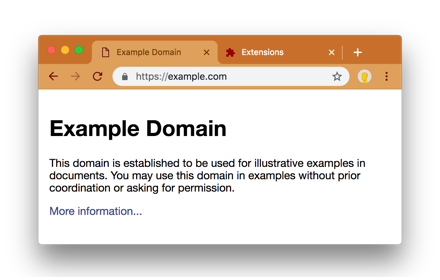
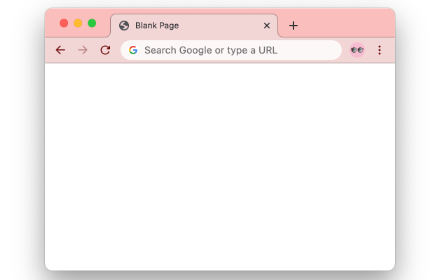
Pink.

diff --git a/README.md b/README.md
@@ -1,5 +1,5 @@
-# Ochre Chrome Theme.
+# Pink Chrome Theme
 
-I used to use the [Chrome Desktop Theme](https://chrome.google.com/webstore/detail/desktop/pafkcccccfmnjkhhndjfffifnflhkpdo?hl=en), but its images don't hold up on a HiDPI. This is a simple theme that uses similar colors.
+It's pink.
 
-<img src="./screenshot.png" width="640" height="400">
+<img src="./publish/screenshot.png" width="640" height="400">
